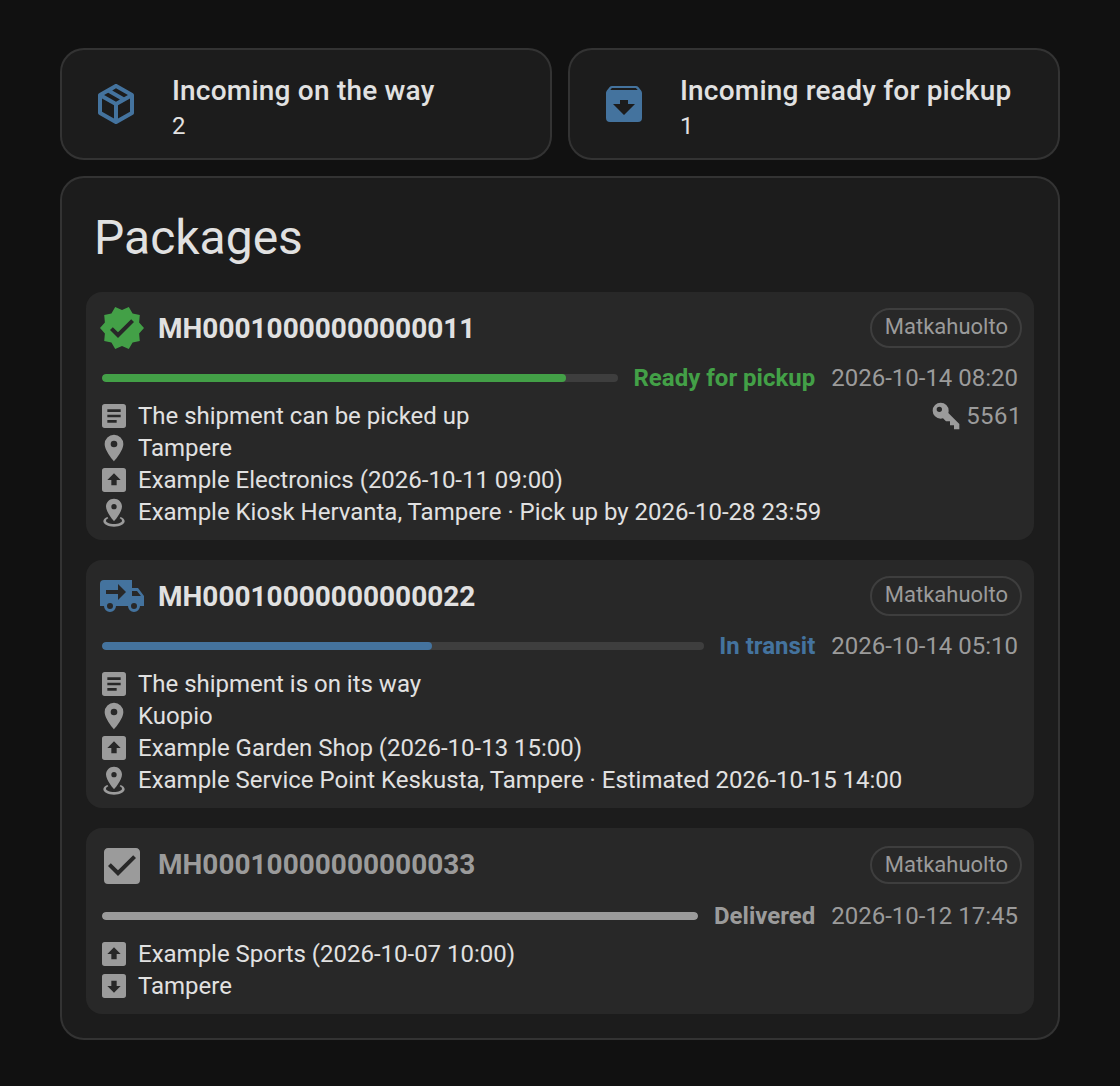
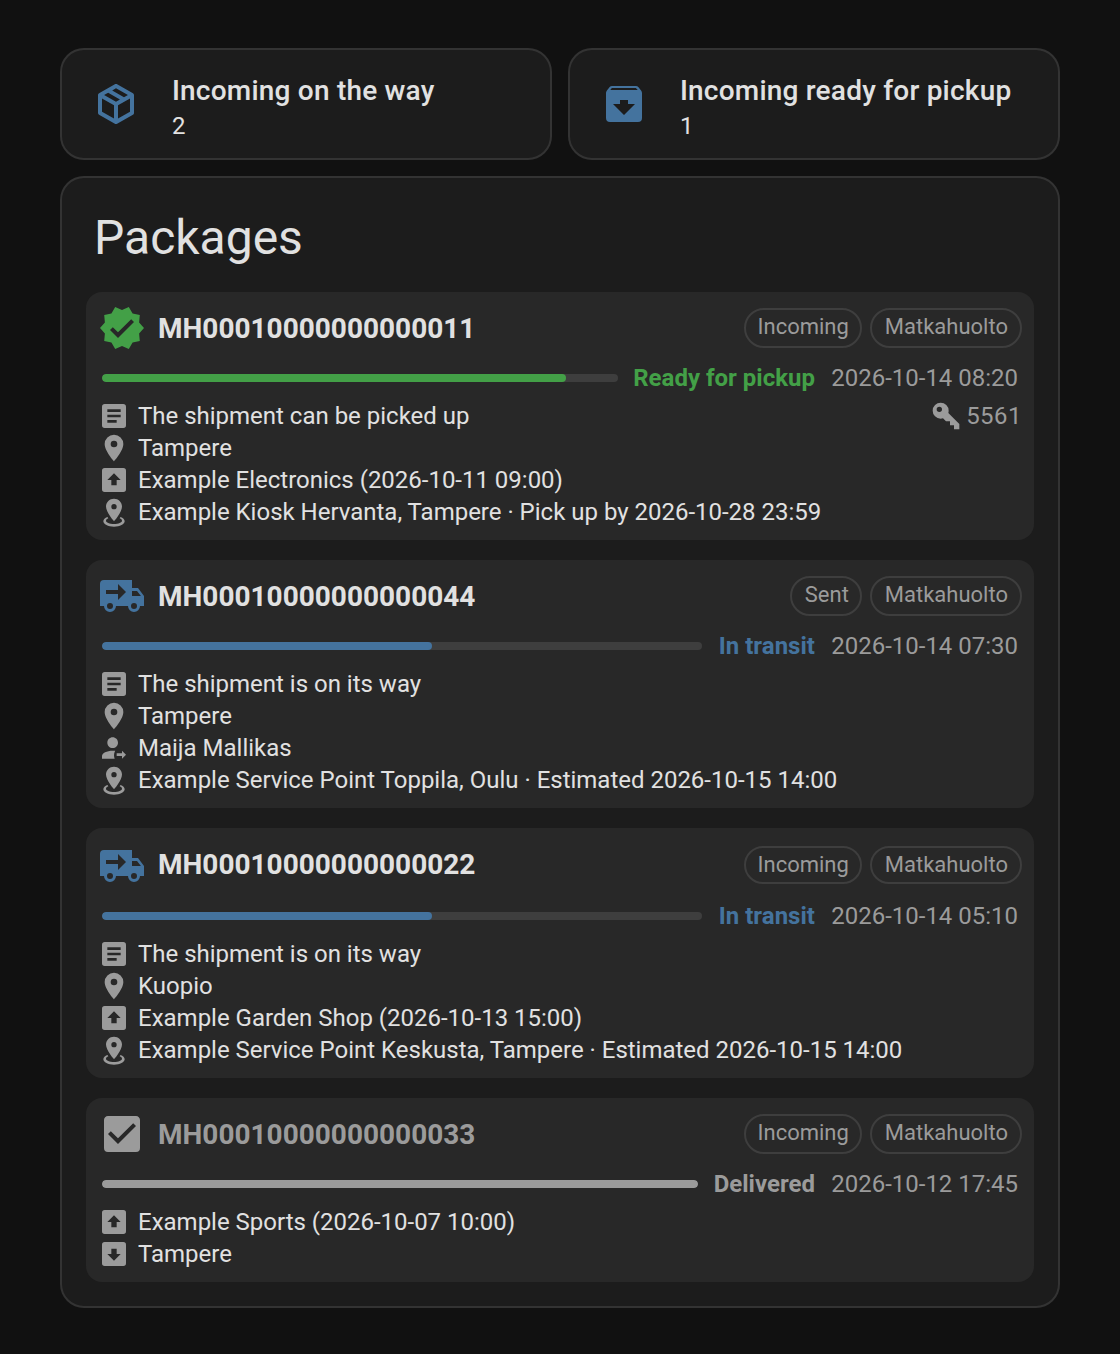
Describe sent packages in the README and show one in its screenshot
What is it? says the integration lists sent packages too and tells them apart, and counts them with four sensors.
The dashboard screenshot has a sent package, and the card marks each package incoming or sent.

diff --git a/README.md b/README.md
@@ -4,18 +4,18 @@ Home Assistant integration that follows the packages of a Matkahuolto account.
 
 [![GitHub Release][releases-shield]][releases] [![GitHub Release Date][release-date-shield]][releases] [![HACS][hacs-shield]][hacs] [![License][license-shield]](LICENSE)
 
-<img src="https://raw.githubusercontent.com/jesmak/matkahuolto_tracking/main/docs/images/dashboard-light.png#gh-light-mode-only" width="560" alt="A dashboard with the counts of packages on the way and ready for pickup, and package-tracker-card listing a package ready for pickup with its code and deadline, one on its way and one delivered">
-<img src="https://raw.githubusercontent.com/jesmak/matkahuolto_tracking/main/docs/images/dashboard-dark.png#gh-dark-mode-only" width="560" alt="A dashboard with the counts of packages on the way and ready for pickup, and package-tracker-card listing a package ready for pickup with its code and deadline, one on its way and one delivered">
+<img src="https://raw.githubusercontent.com/jesmak/matkahuolto_tracking/main/docs/images/dashboard-light.png#gh-light-mode-only" width="560" alt="A dashboard with the counts of incoming packages on the way and ready for pickup, and package-tracker-card listing a package ready for pickup with its code and deadline, one sent to someone else, one on its way and one delivered, each marked incoming or sent">
+<img src="https://raw.githubusercontent.com/jesmak/matkahuolto_tracking/main/docs/images/dashboard-dark.png#gh-dark-mode-only" width="560" alt="A dashboard with the counts of incoming packages on the way and ready for pickup, and package-tracker-card listing a package ready for pickup with its code and deadline, one sent to someone else, one on its way and one delivered, each marked incoming or sent">
 
 ## What is it?
 
 A custom component that lists the coming and recently delivered packages of a
-[matkahuolto.fi](https://www.matkahuolto.fi/) account, and those it has sent. There's no need to add packages by
-hand. The list comes from the packages sent to and from your account, and it's updated every 10 minutes.
+[matkahuolto.fi](https://www.matkahuolto.fi/) account, and those sent from it, telling the two apart. There's no need to
+add packages by hand. The list comes from the packages sent to and from your account, and it's updated every 10 minutes.
 
 The sensor lists the packages in the format [package-tracker-card](https://github.com/jesmak/package-tracker-card)
 reads, so the card can show them together with packages from other tracking integrations. Four more sensors count the
-packages, and an event entity fires when one of them moves along.
+packages coming to you and those you have sent, and an event entity fires when one of them moves along.
 
 This is an unofficial integration. See [Data](#data) for what that means.
 
